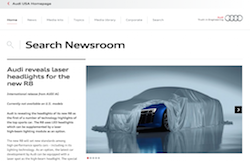
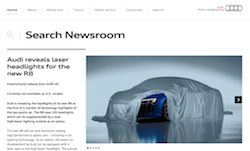
remove rwp

diff --git a/index.html b/index.html
@@ -108,7 +108,7 @@
 			<h2 class="title-portfolio">Portfolio</h2>
 			<h3>Audi USA</h3>
 			<div class="gallery-image-small">
-				<a class="grouped_elements" rel="gallery-audiusa" href="images/portfolio/large/audi_usa_newsroom.png"><img src="images/portfolio/small/audi_usa_newsroom.png" alt="Audi USA" class="image-border"/></a> 
+				<a class="grouped_elements" rel="gallery-audiusa" href="images/portfolio/large/audi_usa_newsroom.png"><img src="images/portfolio/small/audi_usa_newsroom.png" alt="Audi USA" class="image-border"/></a>
 				<div class="hr-gallery"></div>
 				www.audiusa.com/newsroom
 			</div>
@@ -163,14 +163,6 @@
 				<a class="grouped_elements" rel="gallery-bmwkorea" href="images/portfolio/large/bmw_korea.png"><img src="images/portfolio/small/bmw_korea.png" alt="BMW Korea" /></a>
 				<div class="hr-gallery"></div>
 				www.bmw.co.kr
-			</div>
-			<div class="clear"></div>
-			<div class="hr-white"></div>
-			<h3>Rear Wheel Power</h3>
-			<div class="gallery-image-small-last">
-				<a class="grouped_elements" rel="gallery-rwp" href="images/portfolio/large/rwp.png"><img src="images/portfolio/small/rwp.png" alt="Rear Wheel Power" /></a>
-				<div class="hr-gallery"></div>
-				www.rwp.cc
 			</div>
 			<div class="clear"></div>
 			<div class="hr-white"></div>
